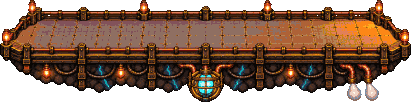
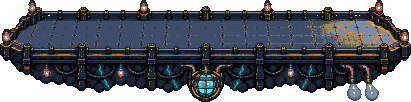
Pixel hull in cool steel to match the bridge and tower
The deck-*-px.webp hulls were still warm brown and gold next to the steel
launch bridge. Remapped onto the steel ramp by brightness; lamps, cyan energy,
copper pipes, steam and thin brass trim stay. scripts/art/coolhull.py redoes it.

Claude-Session: https://claude.ai/code/session_01RAeBEBXjAQi8wp74z8CM1w

diff --git a/scripts/art/coolhull.py b/scripts/art/coolhull.py
@@ -1,0 +1,32 @@
+# Remap a warm hull picture onto cool steel by brightness. Keeps lamps, cyan energy, copper pipes, steam and thin
+# brass trim; big warm blobs (the sun patch on the floor) become lit steel instead.
+import sys, colorsys
+from PIL import Image
+H = lambda s: tuple(int(s[i:i+2],16) for i in (1,3,5))
+RAMP = [H(c) for c in ["#0a0604","#121e2b","#1c2839","#273349","#3d4d6a","#56667f","#7d8ea3"]]
+def keep(r, g, b):
+    h,s,v = colorsys.rgb_to_hsv(r/255,g/255,b/255); hd = h*360
+    if 160 <= hd <= 220 and s > 0.3: return "fixed"   # cyan energy
+    if s < 0.15 and v > 0.7: return "fixed"           # steam
+    if v > 0.95 and s > 0.6: return "thin"            # lamps, glints
+    if hd < 20 and s > 0.72 and 0.45 < v < 0.9: return "thin"  # copper pipes
+    if 30 <= hd <= 55 and s > 0.7 and v > 0.62: return "thin"  # brass trim
+    return None
+def go(src, dst):
+    im = Image.open(src).convert("RGBA"); p = im.load(); W, Hh = im.size
+    k = [[keep(*p[x,y][:3]) if p[x,y][3] else None for y in range(Hh)] for x in range(W)]
+    out = im.copy(); q = out.load()
+    for y in range(Hh):
+        for x in range(W):
+            r,g,b,a = p[x,y]
+            if a == 0: continue
+            kk = k[x][y]
+            if kk == "fixed": continue
+            if kk == "thin":
+                n = sum(1 for dx in (-1,0,1) for dy in (-1,0,1) if (dx or dy) and 0<=x+dx<W and 0<=y+dy<Hh and k[x+dx][y+dy] == "thin")
+                dark = any(0<=x+dx<W and 0<=y+dy<Hh and p[x+dx,y+dy][3] and max(p[x+dx,y+dy][:3]) < 70 for dx in range(-2,3) for dy in range(-2,3))
+                if n < 5 or dark: continue
+            lum = (0.299*r + 0.587*g + 0.114*b) / 255
+            q[x,y] = RAMP[min(len(RAMP)-1, int(lum * 1.5 * len(RAMP)))] + (a,)
+    out.save(dst, lossless=True) if dst.endswith(".webp") else out.save(dst)
+for a in zip(sys.argv[1::2], sys.argv[2::2]): go(*a)
